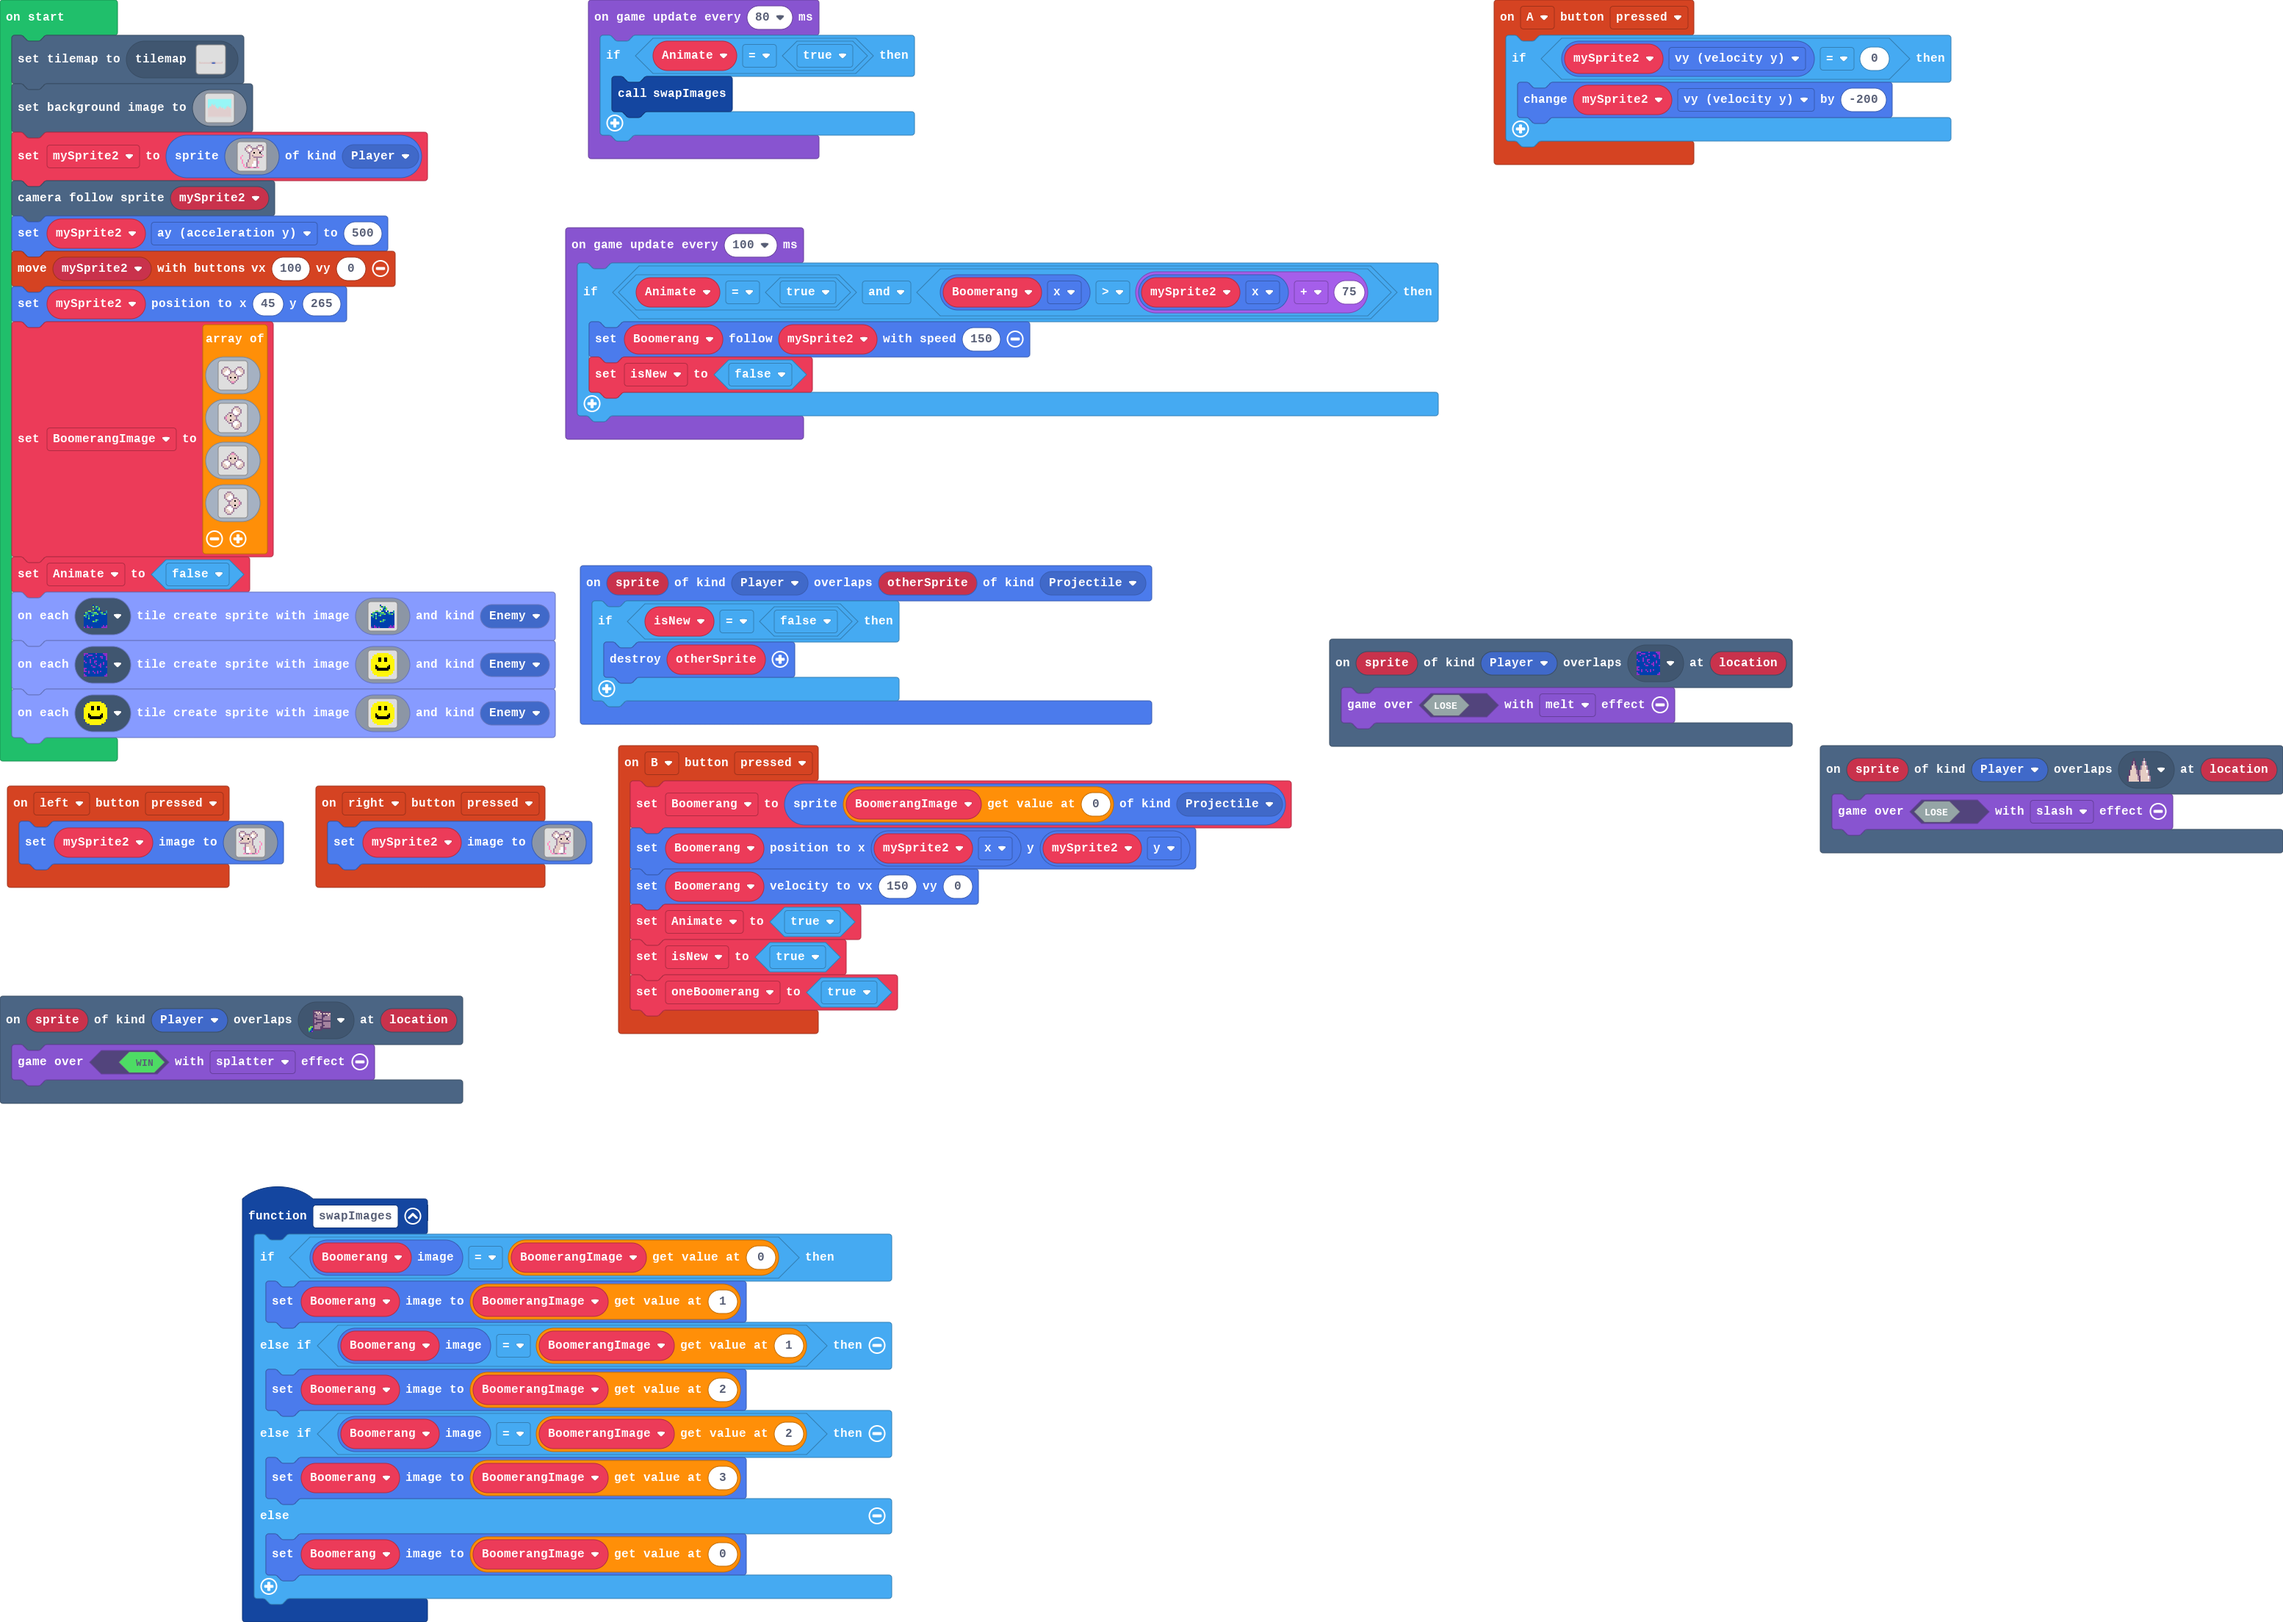
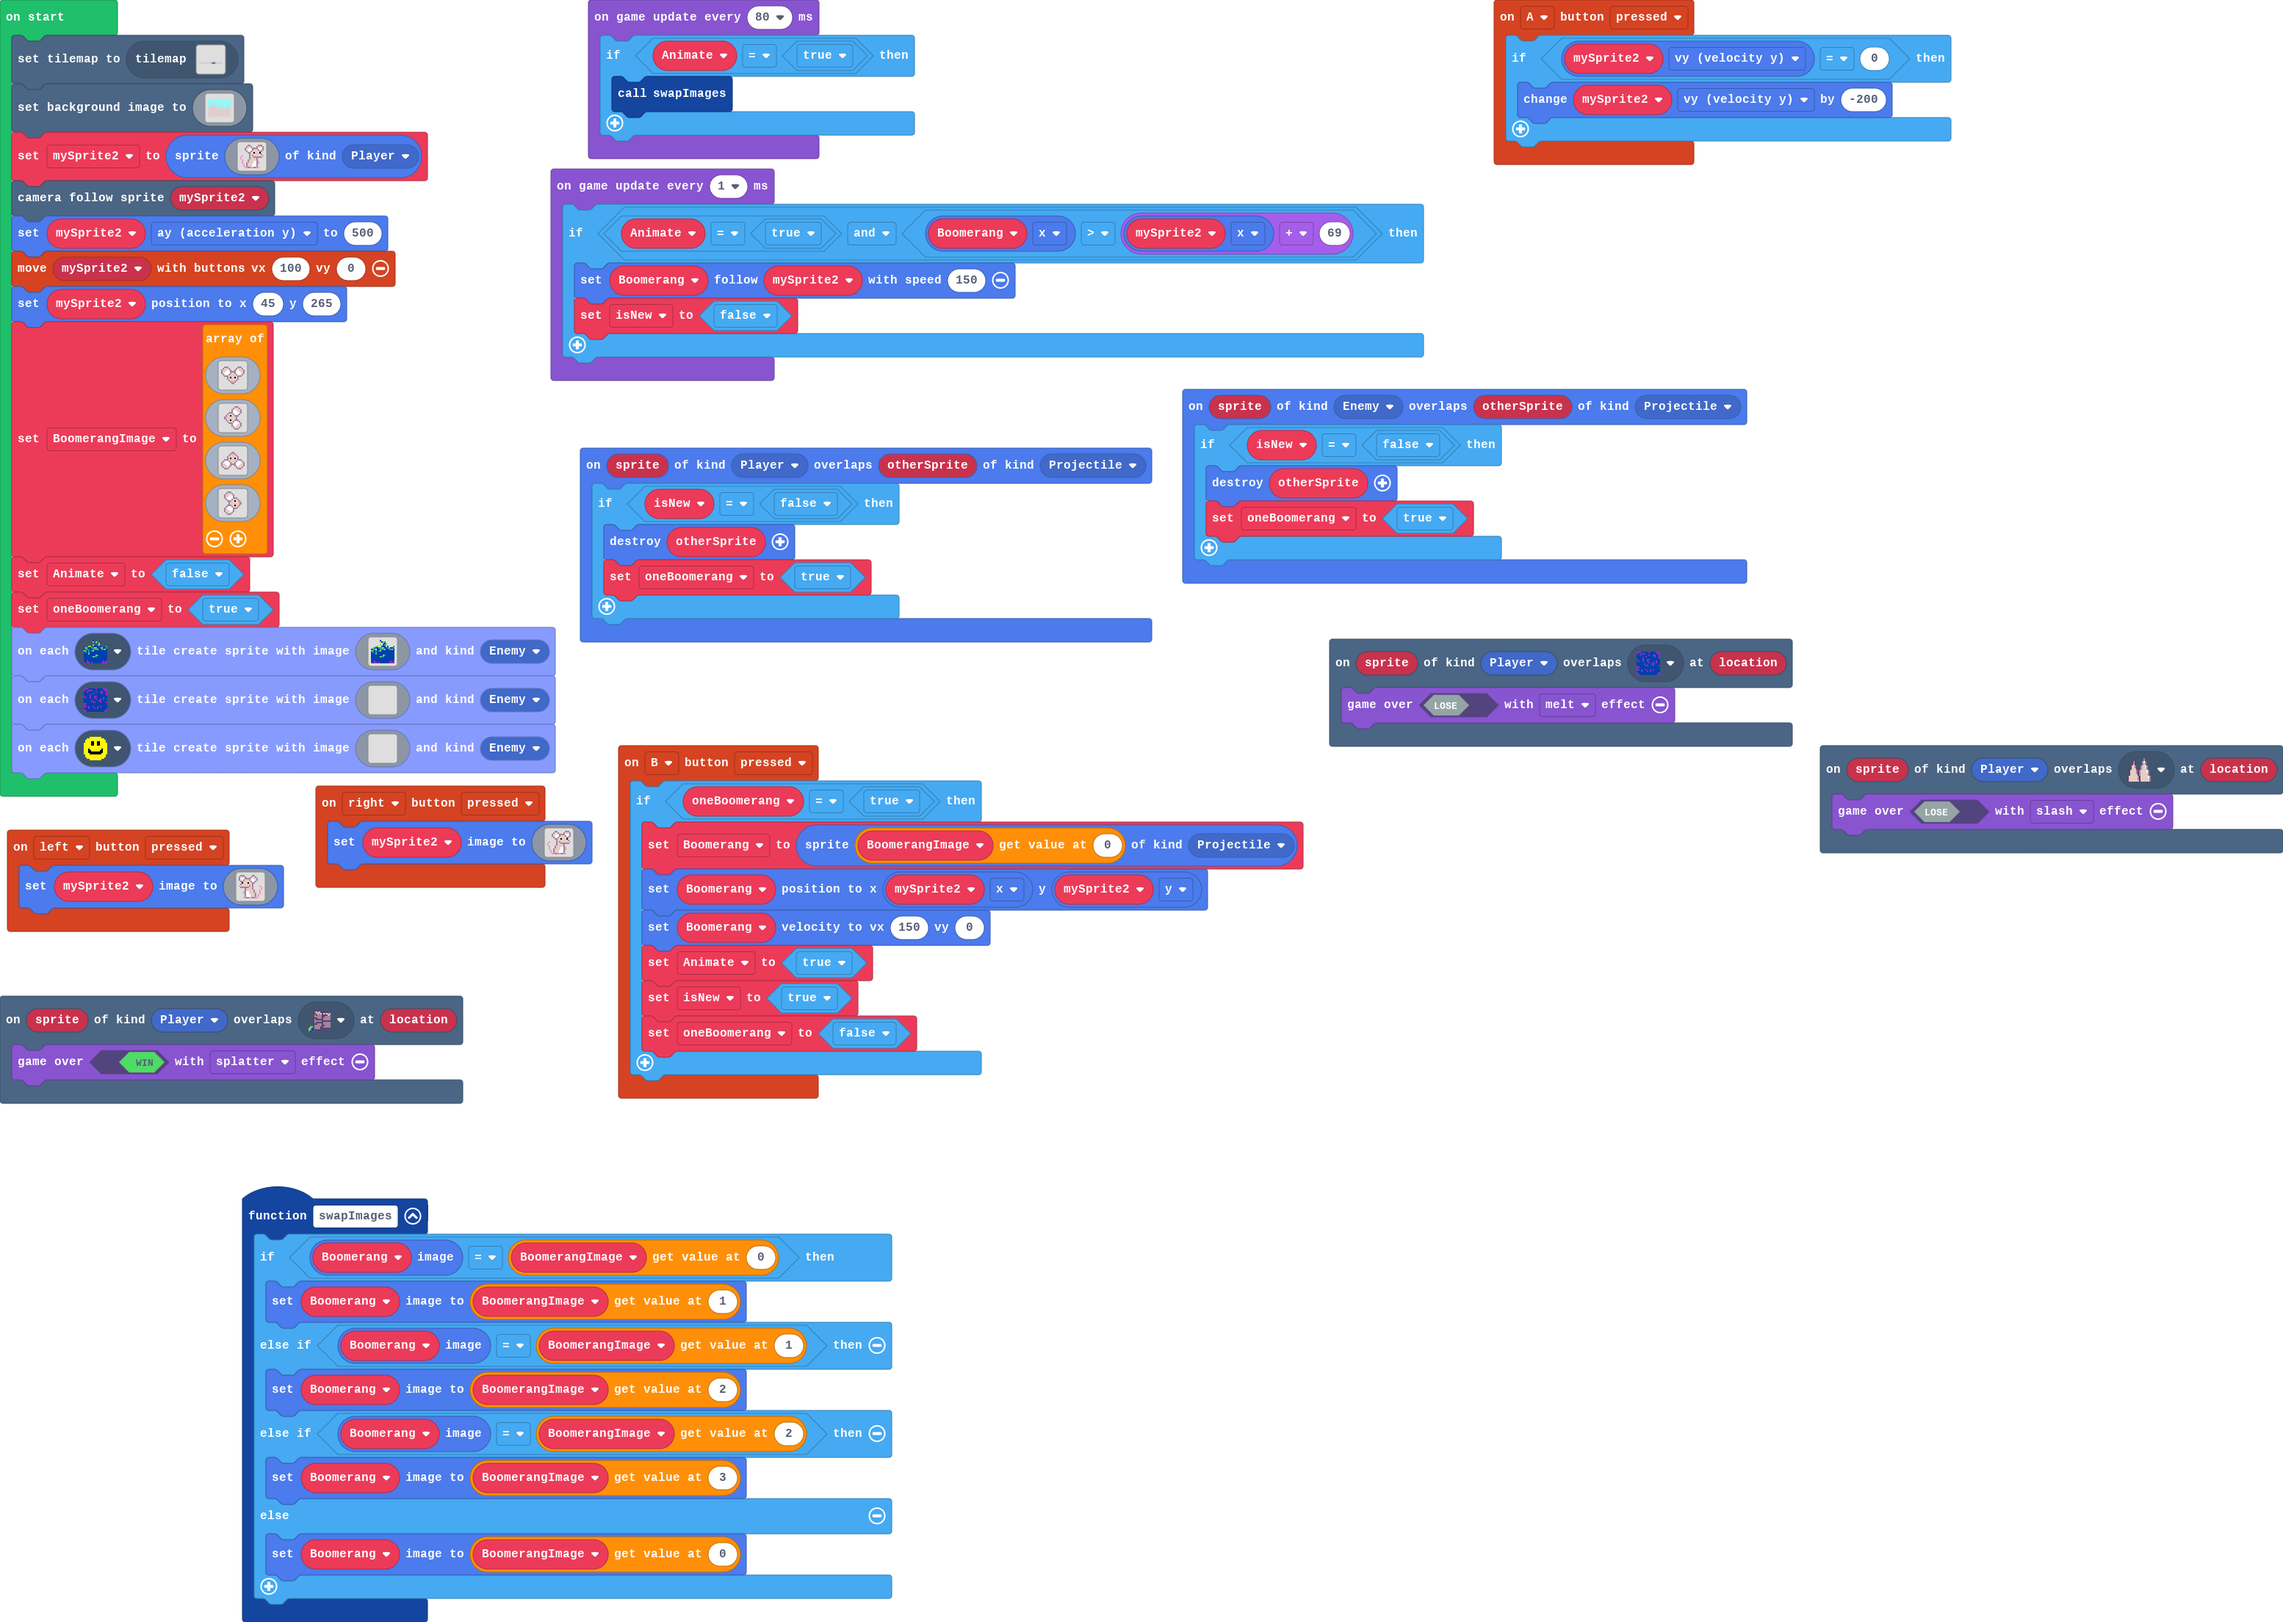
Update main.blocks, main.ts, tilemap.g.jres, tilemap.g.ts, images.g.jres, images.g.ts

Changed region(s): [[0.0, 0.0938, 0.7802, 0.6875]]

diff --git a/main.ts b/main.ts
@@ -5,12 +5,14 @@ scene.onOverlapTile(SpriteKind.Player, assets.tile`EndPipe`, function (sprite, l
     game.over(true, effects.splatter)
 })
 controller.B.onEvent(ControllerButtonEvent.Pressed, function () {
-    Boomerang = sprites.create(BoomerangImage[0], SpriteKind.Projectile)
-    Boomerang.setPosition(mySprite2.x, mySprite2.y)
-    Boomerang.setVelocity(150, 0)
-    Animate = true
-    isNew = true
-    oneBoomerang = true
+    if (oneBoomerang == true) {
+        Boomerang = sprites.create(BoomerangImage[0], SpriteKind.Projectile)
+        Boomerang.setPosition(mySprite2.x, mySprite2.y)
+        Boomerang.setVelocity(150, 0)
+        Animate = true
+        isNew = true
+        oneBoomerang = false
+    }
 })
 controller.A.onEvent(ControllerButtonEvent.Pressed, function () {
     if (mySprite2.vy == 0) {
@@ -19,6 +21,12 @@ controller.A.onEvent(ControllerButtonEvent.Pressed, function () {
 })
 controller.left.onEvent(ControllerButtonEvent.Pressed, function () {
     mySprite2.setImage(assets.image`RatthewOther`)
+})
+sprites.onOverlap(SpriteKind.Enemy, SpriteKind.Projectile, function (sprite, otherSprite) {
+    if (isNew == false) {
+        otherSprite.destroy()
+        oneBoomerang = true
+    }
 })
 function swapImages () {
     if (Boomerang.image == BoomerangImage[0]) {
@@ -37,14 +45,15 @@ controller.right.onEvent(ControllerButtonEvent.Pressed, function () {
 sprites.onOverlap(SpriteKind.Player, SpriteKind.Projectile, function (sprite, otherSprite) {
     if (isNew == false) {
         otherSprite.destroy()
+        oneBoomerang = true
     }
 })
 scene.onOverlapTile(SpriteKind.Player, assets.tile`Spikes`, function (sprite, location) {
     game.over(false, effects.slash)
 })
-let oneBoomerang = false
 let isNew = false
 let Boomerang: Sprite = null
+let oneBoomerang = false
 let Animate = false
 let BoomerangImage: Image[] = []
 let mySprite2: Sprite = null
@@ -183,6 +192,7 @@ assets.image`Ratarang3`,
 assets.image`Ratarang4`
 ]
 Animate = false
+oneBoomerang = true
 tileUtil.createSpritesOnTiles(assets.tile`Sewage`, assets.image`Sewage Sprite`, SpriteKind.Enemy)
 tileUtil.createSpritesOnTiles(assets.tile`BadWater`, assets.image`Davest`, SpriteKind.Enemy)
 tileUtil.createSpritesOnTiles(assets.tile`Dave`, assets.image`Davest`, SpriteKind.Enemy)
@@ -191,8 +201,8 @@ game.onUpdateInterval(80, function () {
         swapImages()
     }
 })
-game.onUpdateInterval(100, function () {
-    if (Animate == true && Boomerang.x > mySprite2.x + 75) {
+game.onUpdateInterval(1, function () {
+    if (Animate == true && Boomerang.x > mySprite2.x + 69) {
         Boomerang.follow(mySprite2, 150)
         isNew = false
     }

diff --git a/tilemap.g.ts b/tilemap.g.ts
@@ -38,6 +38,25 @@ namespace myTiles {
 2222222222222222222222222222......2222222222222222
 2222222222222222222222222222......2222222222222222
 `, [myTiles.transparency16,sprites.dungeon.floorLight0,sprites.dungeon.floorLight1,myTiles.tile1,sprites.dungeon.floorLight4,myTiles.tile2,myTiles.tile3,sprites.dungeon.floorMixed,sprites.dungeon.floorDark0,sprites.dungeon.floorLightMoss,sprites.dungeon.floorDark1,sprites.dungeon.floorDark4,myTiles.tile4,myTiles.tile5], TileScale.Sixteen);
+            case "level2":
+            case "level2":return tiles.createTilemap(hex`1000100000000000000000000000000000000000000000000000000000000000000000000000000000000000000000000000000000000000000000000000000000000000000000000000000000000000000000000000000000000000000000000000000000000000000000000000000000000000000000000000000000000000000000000000000000000000000000000000000000000000000000000000000000000000000000000000000000000000000000000000000000000000000000000000000000000000000000000000000000000000000000000000000000000000000000000000000000000000000000000000000000000000000000000000000000000000`, img`
+. . . . . . . . . . . . . . . . 
+. . . . . . . . . . . . . . . . 
+. . . . . . . . . . . . . . . . 
+. . . . . . . . . . . . . . . . 
+. . . . . . . . . . . . . . . . 
+. . . . . . . . . . . . . . . . 
+. . . . . . . . . . . . . . . . 
+. . . . . . . . . . . . . . . . 
+. . . . . . . . . . . . . . . . 
+. . . . . . . . . . . . . . . . 
+. . . . . . . . . . . . . . . . 
+. . . . . . . . . . . . . . . . 
+. . . . . . . . . . . . . . . . 
+. . . . . . . . . . . . . . . . 
+. . . . . . . . . . . . . . . . 
+. . . . . . . . . . . . . . . . 
+`, [myTiles.transparency16], TileScale.Sixteen);
         }
         return null;
     })

diff --git a/images.g.ts b/images.g.ts
@@ -138,22 +138,22 @@ a 8 a a 8 a 8 8 8 8 8 8 a a a a
 `;
             case "image8":
             case "Davest":return img`
-. . . . 5 5 5 5 5 5 5 5 . . . . 
-. . 5 5 5 5 5 5 5 5 5 5 5 5 . . 
-. 5 5 5 5 5 5 5 5 5 5 5 5 5 5 . 
-. 5 5 5 5 f f 5 5 f f 5 5 5 5 . 
-5 5 5 5 5 f f 5 5 f f 5 5 5 5 5 
-5 5 5 5 5 f f 5 5 f f 5 5 5 5 5 
-5 5 5 5 5 5 5 5 5 5 5 5 5 5 5 5 
-5 5 5 5 5 5 5 5 5 5 5 5 5 5 5 5 
-5 5 5 f 5 5 5 5 5 5 5 5 f 5 5 5 
-5 5 5 f f 5 5 5 5 5 5 f f 5 5 5 
-5 5 5 f f f f f f f f f f 5 5 5 
-5 5 5 5 f f f f f f f f 5 5 5 5 
-. 5 5 5 5 5 5 5 5 5 5 5 5 5 5 . 
-. 5 5 5 5 5 5 5 5 5 5 5 5 5 5 . 
-. . 5 5 5 5 5 5 5 5 5 5 5 5 . . 
-. . . . 5 5 5 5 5 5 5 5 . . . . 
+. . . . . . . . . . . . . . . . 
+. . . . . . . . . . . . . . . . 
+. . . . . . . . . . . . . . . . 
+. . . . . . . . . . . . . . . . 
+. . . . . . . . . . . . . . . . 
+. . . . . . . . . . . . . . . . 
+. . . . . . . . . . . . . . . . 
+. . . . . . . . . . . . . . . . 
+. . . . . . . . . . . . . . . . 
+. . . . . . . . . . . . . . . . 
+. . . . . . . . . . . . . . . . 
+. . . . . . . . . . . . . . . . 
+. . . . . . . . . . . . . . . . 
+. . . . . . . . . . . . . . . . 
+. . . . . . . . . . . . . . . . 
+. . . . . . . . . . . . . . . . 
 `;
         }
         return null;
